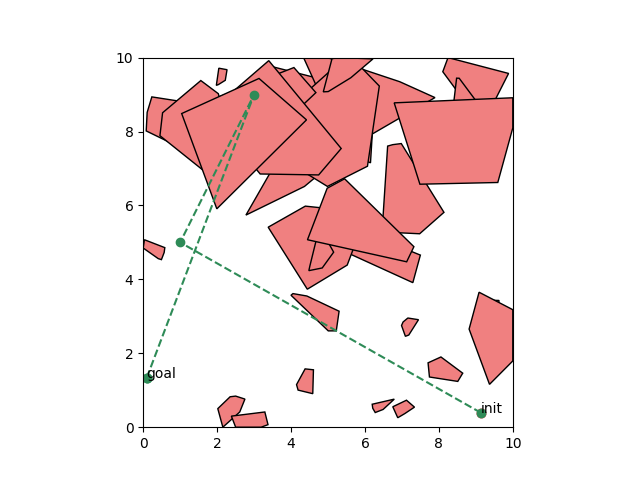
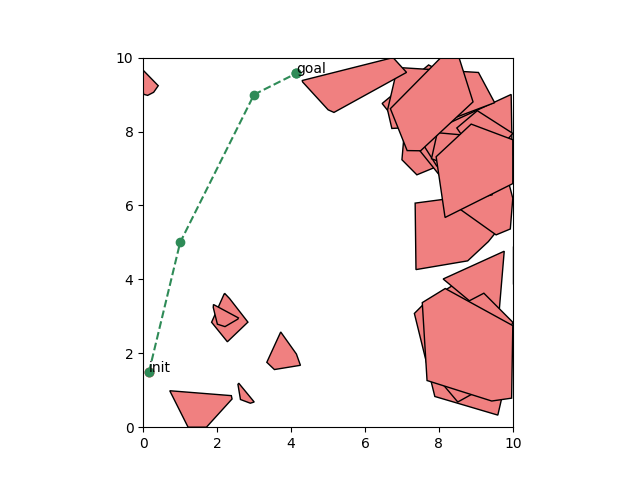
more funcs, ready for algorithm??

diff --git a/ws/hw2/MyAgent.cpp b/ws/hw2/MyAgent.cpp
@@ -2,11 +2,49 @@
 #include "MyObstacle.h"
 #include "AMPCore.h"
 
-void PointAgent::move(double dt){
+bool PointAgent::move(const std::vector<MyObstacle> obstacles, const double dt, const double epsilon){
     // moves the robot with x += heading*dt
+    Eigen::Vector2d x_test;
+    bool collision = false;
 
-    x += heading*dt;
-}
+    x_test = x + heading*dt;
+
+    for (const auto& ob : obstacles){
+        if (ob.collisionCheck(x_test)){
+            collision = true;
+        };
+    }
+    
+    if (!collision){
+        x += heading*dt;
+        return collision;
+    }
+    else{
+        //found a collision. need to move within epsilon/3 of target
+        Eigen::Vector2d x_last = x;
+        Eigen::Vector2d x_next = x;
+
+        // gonna do this iteratively
+        //move eps/3 closer each time just until you make contact
+        while (true){
+            bool contact = false;
+            x_next += heading*(epsilon/3.0);
+            for (const auto& ob : obstacles){
+                if (ob.collisionCheck(x_next)){
+                    contact = true;
+                    break;
+                }
+            }
+            if (contact){
+                break; //breaks the while loop before x last is updated
+            }
+            
+            x_last = x_next;
+        };
+        x = x_last;
+        return collision;
+    }
+};
 
 void PointAgent::rotate(double dtheta){
     // moves the robot's heading by some dtheta (rhrule about +z)
@@ -20,7 +58,7 @@ void PointAgent::rotate(double dtheta){
     heading.normalize(); //gotta make sure to normalize
 }
 
-void PointAgent::rotateToCircumnavigateRH(const std::vector<MyObstacle> obstacles, const double dtheta, const double epsilon){
+bool PointAgent::rotateToCircumnavigateRH(const std::vector<MyObstacle> obstacles, const double dtheta, const double epsilon){
     /* rotates withe the following schema.
 
     if heading*epsilon is in collision and -heading*epsilon is not:
@@ -61,13 +99,18 @@ void PointAgent::rotateToCircumnavigateRH(const std::vector<MyObstacle> obstacle
                 lh_free = false;
             };
         };
+
+        int num_free = heading_free + backheading_free + rh_free + lh_free;
+        // check for interior corner
+        if (num_free == 1){
+            return false;
+        }
         
         //Check our exit condition.
         if (heading_free && backheading_free && lh_free && !rh_free){
-            break;
+            return true;
         }
 
-        int num_free = heading_free + backheading_free + rh_free + lh_free;
         
         if (num_free == 0){
             std::cout << "All vectors are not free. Inside obstacle" << std::endl;
@@ -110,9 +153,106 @@ void PointAgent::rotateToCircumnavigateRH(const std::vector<MyObstacle> obstacle
 
     if (total_rotation > 1000){ //prevent not converging
         std::cout << "ROTATE TO CIRCUMNAV DID NOT CONVERGE " << std::endl;
+        return 0;
 
     }
 
+
+};
+
+
+bool PointAgent::rotateToCircumnavigateRHInteriorCorner(const std::vector<MyObstacle> obstacles, const double dtheta, const double epsilon){
+    /* rotates withe the following schema.
+
+    if heading*epsilon is in collision and -heading*epsilon is not:
+        rotate dtheta
+    if -heading*epsilon is in collision and heading*epsilon is not:
+        rotate -dtheta
+    if -heading*epsilon is not collision and heading*epsilon is also not
+        and right_hand * epsilon not in collision
+
+        flip heading
+    once headings are free and rh is not, break and can move
+    */
+
+    double total_rotation = 0.0;
+
+    while (total_rotation < 1000){ // gives it 1000 degrees to converge lol
+        bool heading_free = true;
+        bool backheading_free = true;
+        bool rh_free = true;
+        bool lh_free = true;
+
+        for (const auto& ob : obstacles){
+            Eigen::Vector2d heading_vec = x + epsilon*heading;
+            Eigen::Vector2d backheading_vec = x - epsilon*heading;
+            Eigen::Vector2d rh_vec = x + epsilon * Eigen::Vector2d(heading[1], -heading[0]);
+            Eigen::Vector2d lh_vec = x + epsilon * Eigen::Vector2d(-heading[1], heading[0]);
+            
+            if (ob.collisionCheck(heading_vec)){
+                heading_free = false;
+            };
+            if (ob.collisionCheck(backheading_vec)){
+                backheading_free = false;
+            };
+            if (ob.collisionCheck(rh_vec)){
+                rh_free = false;
+            };
+            if (ob.collisionCheck(lh_vec)){
+                lh_free = false;
+            };
+        };
+
+        int num_free = heading_free + backheading_free + rh_free + lh_free;
+
+
+        //Check our exit condition.
+        //for interior, only need two free
+        if (heading_free && !rh_free){
+            return 1;
+        }
+
+        if (num_free == 0){
+            std::cout << "All vectors are not free. Inside obstacle" << std::endl;
+        }
+
+        // std::cout << heading_free << " " << backheading_free << " " << rh_free << total_rotation << std::endl;
+
+        //Conditions when 1 is free, rotate until just 2 are free
+        else if (num_free == 1){
+            rotate(dtheta);
+            total_rotation += dtheta;
+        }
+        // if num_free = 2, solve for exact rotation to go right way
+        else if (!heading_free && backheading_free && !rh_free && lh_free){
+            // only left hand is in corner, flip
+            rotate(90);
+            total_rotation += 90;
+        }
+        else if (!heading_free && backheading_free && rh_free && !lh_free){
+            // only heading is in corner, rot 90
+            rotate(180);
+            total_rotation += 180;
+        }
+        else if (heading_free && !backheading_free && rh_free && !lh_free){
+            // only backheading is in corner, rot -90
+            rotate(-90);
+            total_rotation += 90;
+        }
+    };
+
+    if (total_rotation > 1000){ //prevent not converging
+        std::cout << "ROTATE TO CIRCUMNAV interior DID NOT CONVERGE " << std::endl;
+
+    }
+
+
+};
+
+void PointAgent::pointAtGoal(const Eigen::Vector2d q_goal){
+    //updates heading to be a unit vector in direction of goal
+    Eigen::Vector2d vec_to_goal = q_goal - x;
+    heading = vec_to_goal.normalize();
 
 };
 

diff --git a/ws/hw2/main.cpp b/ws/hw2/main.cpp
@@ -74,21 +74,13 @@ int main(int argc, char** argv) {
     std::cout << "test collision should be FALSE: " << test_ob2.collisionCheck(Eigen::Vector2d(0.5, 1.0001)) << std::endl;
 
     // testing the agent and its basic functions
-    //test moving
     PointAgent test_agent;
-    test_agent.move(1.0);
-    std::cout << "test point should be 1,0: " << test_agent.x << std::endl;
-    test_agent.x = Eigen::Vector2d(-1.0, -1.0);
-    test_agent.heading = Eigen::Vector2d(-1.0, -1.0);
-    test_agent.move(0.1);
-    std::cout << "test point should be -1.1414,-1.1414: " << test_agent.x << std::endl;
-
     // test rotate
     test_agent.heading = Eigen::Vector2d(1.0, 1.0);
     test_agent.rotate(45.0);
-    std::cout << "test point should be 0.0, 1.0: " << test_agent.heading << std::endl;
+    std::cout << "test point should be 0.0, 1.0: " << test_agent.heading.transpose() << std::endl;
     test_agent.rotate(-45.0);
-    std::cout << "test point should be 0.707, 0.707: " << test_agent.heading << std::endl;
+    std::cout << "test point should be 0.707, 0.707: " << test_agent.heading.transpose() << std::endl;
 
     // test rotate until free
     // gonna use that old test_ob which is a 2d square
@@ -96,12 +88,58 @@ int main(int argc, char** argv) {
     double test_eps = 1e-4;
     double test_dtheta = 1e-5;
     test_agent.x = Eigen::Vector2d(-5.0 - test_eps/3.0, -5.0 - test_eps/3.0);
-    test_agent.rotateToCircumnavigateRH(test_obs, test_dtheta, test_eps);
-    std::cout << "test heading should close to -0.707, 0.707: " << test_agent.heading << std::endl;
+    bool converged = test_agent.rotateToCircumnavigateRH(test_obs, test_dtheta, test_eps);
+    std::cout << "converge?" << converged <<"heading should close to -0.707, 0.707: " << test_agent.heading.transpose() << std::endl;
     test_agent.x = Eigen::Vector2d(0, 5.0 + test_eps/3.0);
-    test_agent.rotateToCircumnavigateRH(test_obs, test_dtheta, test_eps);
-    std::cout << "test heading should close to -1.0, 0.0: " << test_agent.heading << std::endl;
+    converged = test_agent.rotateToCircumnavigateRH(test_obs, test_dtheta, test_eps);
+    std::cout <<"converge? " << converged <<" heading should close to 1.0, 0.0: " << test_agent.heading.transpose() << std::endl;
+    test_agent.x = Eigen::Vector2d(-5.0 - test_eps/3.0, 1.0);
+    converged = test_agent.rotateToCircumnavigateRH(test_obs, test_dtheta, test_eps);
+    std::cout <<"converge? " << converged <<" heading should close to 0.0, 1.0: " << test_agent.heading.transpose() << std::endl;
 
+    // now gonna add an object to make it convex :o. 
+
+    std::vector<Eigen::Vector2d> vertices2 = {
+        Eigen::Vector2d(2.0, 5.0),
+        Eigen::Vector2d(2.0, 6.0),
+        Eigen::Vector2d(0.0, 6.0),
+        Eigen::Vector2d(0.0, 5.0),
+    };
+    MyObstacle test_ob3;
+    test_ob3.defineWithPoints(vertices2);
+
+    test_obs = {test_ob, test_ob3};
+    test_agent.x = Eigen::Vector2d(0.0 - test_eps/3.0, 5.0 + test_eps/3.0);
+    converged = test_agent.rotateToCircumnavigateRH(test_obs, test_dtheta, test_eps);
+    std::cout << "converge fails: " << converged << std::endl;
+    converged = test_agent.rotateToCircumnavigateRHInteriorCorner(test_obs, test_dtheta, test_eps);
+    std::cout << "converge?" << converged <<"heading should close to 0.0, 1.0: " << test_agent.heading.transpose() << std::endl;
+    test_agent.x = Eigen::Vector2d(2.0 + test_eps/3.0, 5.0 + test_eps/3.0);
+    converged = test_agent.rotateToCircumnavigateRH(test_obs, test_dtheta, test_eps);
+    std::cout << "converge fails: " << converged << std::endl;
+    converged = test_agent.rotateToCircumnavigateRHInteriorCorner(test_obs, test_dtheta, test_eps);
+    std::cout << "converge?" << converged <<"heading should close to 1.0, 0.0: " << test_agent.heading.transpose() << std::endl;
+
+
+    // tests moving puts you just outside an object
+    bool collided;
+    test_agent.x = Eigen::Vector2d(5.1, 5.1);
+    test_agent.heading = Eigen::Vector2d(1.0, 1.0);
+    collided = test_agent.move(test_obs, 1.0, test_eps);
+    std::cout <<  "collision FALSE: "<< collided <<"test point should be 6.1, 6.1: " << test_agent.x.transpose() << std::endl;
+    test_agent.x = Eigen::Vector2d(-10, -10);
+    test_agent.heading = Eigen::Vector2d(-1.0, -1.0);
+    collided = test_agent.move(test_obs, 0.1, test_eps);
+    std::cout <<  "collision FALSE: "<< collided <<"test point should be -10.1414,-10.1414: " << test_agent.x.transpose() << std::endl;
+    test_agent.x = Eigen::Vector2d(0, -6);
+    test_agent.heading = Eigen::Vector2d(0.0, 2.0);
+    collided = test_agent.move(test_obs, 1.0, test_eps);
+    std::cout << "collision TRUE: "<< collided <<"test point should be 0.0, -5.00001 " << test_agent.x.transpose() << std::endl;
+    test_agent.x = Eigen::Vector2d(3, 6);
+    test_agent.heading = Eigen::Vector2d(-1.0, -1.0);
+    collided = test_agent.move(test_obs, 1.0, test_eps);
+    std::cout << "collision TRUE: "<< collided <<"test point should be 2.00001, 5.00001 " << test_agent.x.transpose() << std::endl;
+    
     /*END TESTS END TESTS END TESTS*/
 
 

diff --git a/ws/hw2/MyAgent.h b/ws/hw2/MyAgent.h
@@ -8,11 +8,13 @@ class PointAgent {
         Eigen::Vector2d x = Eigen::Vector2d(0.0, 0.0); // current position
         Eigen::Vector2d heading = Eigen::Vector2d(1.0, 0.0); // heading. Unit vector. Consider it velocity
         bool collided = false; //todo might be bad??
-        void move(const double dt); //updates x
+        bool move(const std::vector<MyObstacle> obstacles, const double dt, const double epsilon); //updates x. returns true if collided
         void rotate(const double dtheta); //updates heading
-        void rotateToCircumnavigateRH(const std::vector<MyObstacle> obstacles, const double dtheta, const double epsilon); //rotates heading until heading and -heading is free and rh is not
+        bool rotateToCircumnavigateRH(const std::vector<MyObstacle> obstacles, const double dtheta, const double epsilon); //rotates heading until heading and -heading is free and rh is not
+        bool rotateToCircumnavigateRHInteriorCorner(const std::vector<MyObstacle> obstacles, const double dtheta, const double epsilon); //special case attempted if first effort didnt work
+
         //void follow_boundary(const double dt); //moves and rotates around a boundary
-        //void goToGoal(const Eigen::Vector2d q_goal); // points to goal, moves
+        void pointAtGoal(const Eigen::Vector2d q_goal); // points to goal, moves
 };
 
 #endif

diff --git a/ws/hw2/MyBugAlgorithm.cpp b/ws/hw2/MyBugAlgorithm.cpp
@@ -1,5 +1,6 @@
 #include "MyBugAlgorithm.h"
 #include "MyObstacle.h"
+#include "MyAgent.h"
 
 // Implement your methods in the `.cpp` file, for example:
 amp::Path2D MyBugAlgorithm::plan(const amp::Problem2D& problem) {
@@ -13,6 +14,13 @@ amp::Path2D MyBugAlgorithm::plan(const amp::Problem2D& problem) {
         my_ob.defineWithPoints(obstacle.verticesCCW());
         my_obstacles.push_back(my_ob);
     };
+
+    // initialize the agent
+    PointAgent agent;
+    agent.x = problem.q_init;
+
+    
+
     
     
     
